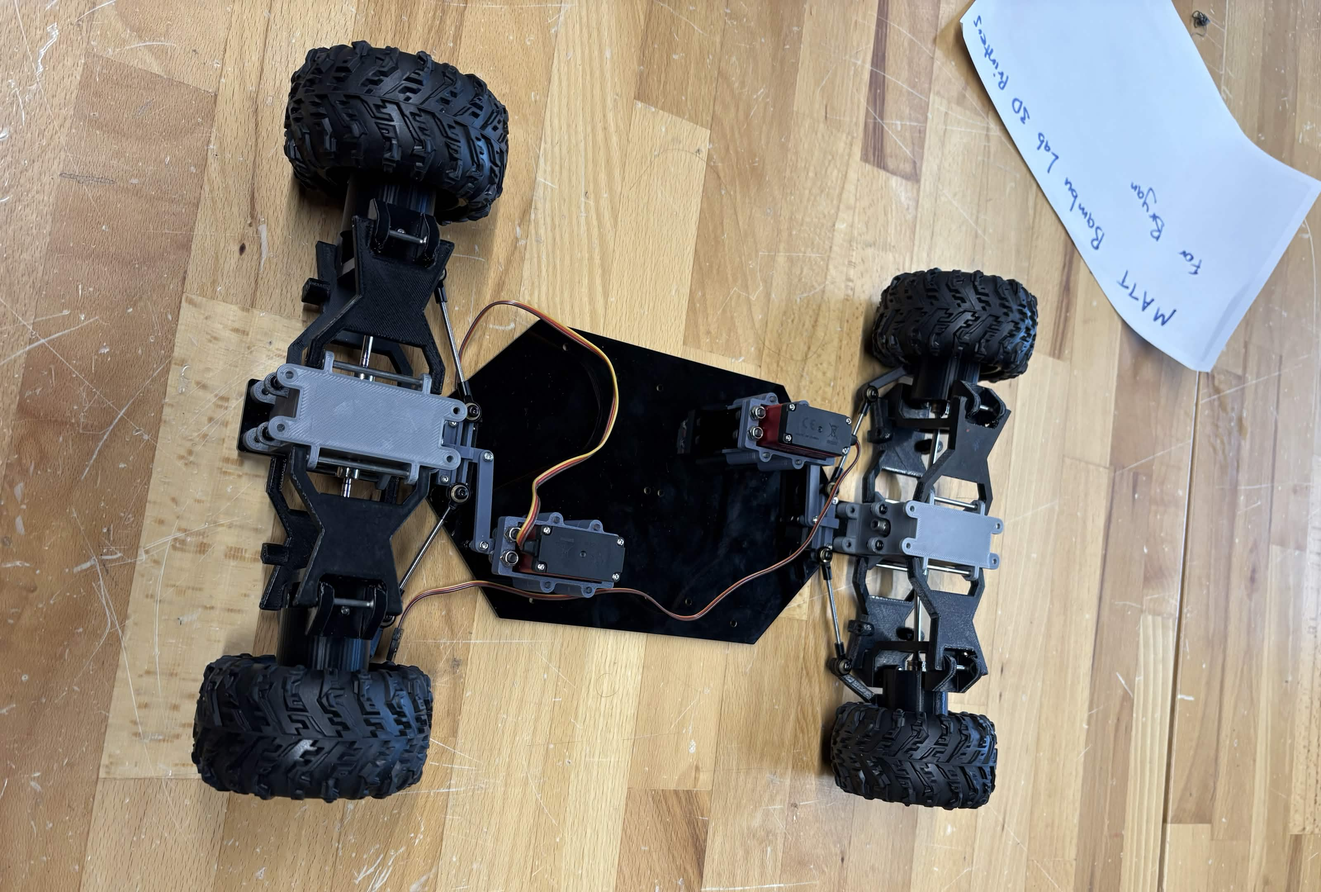
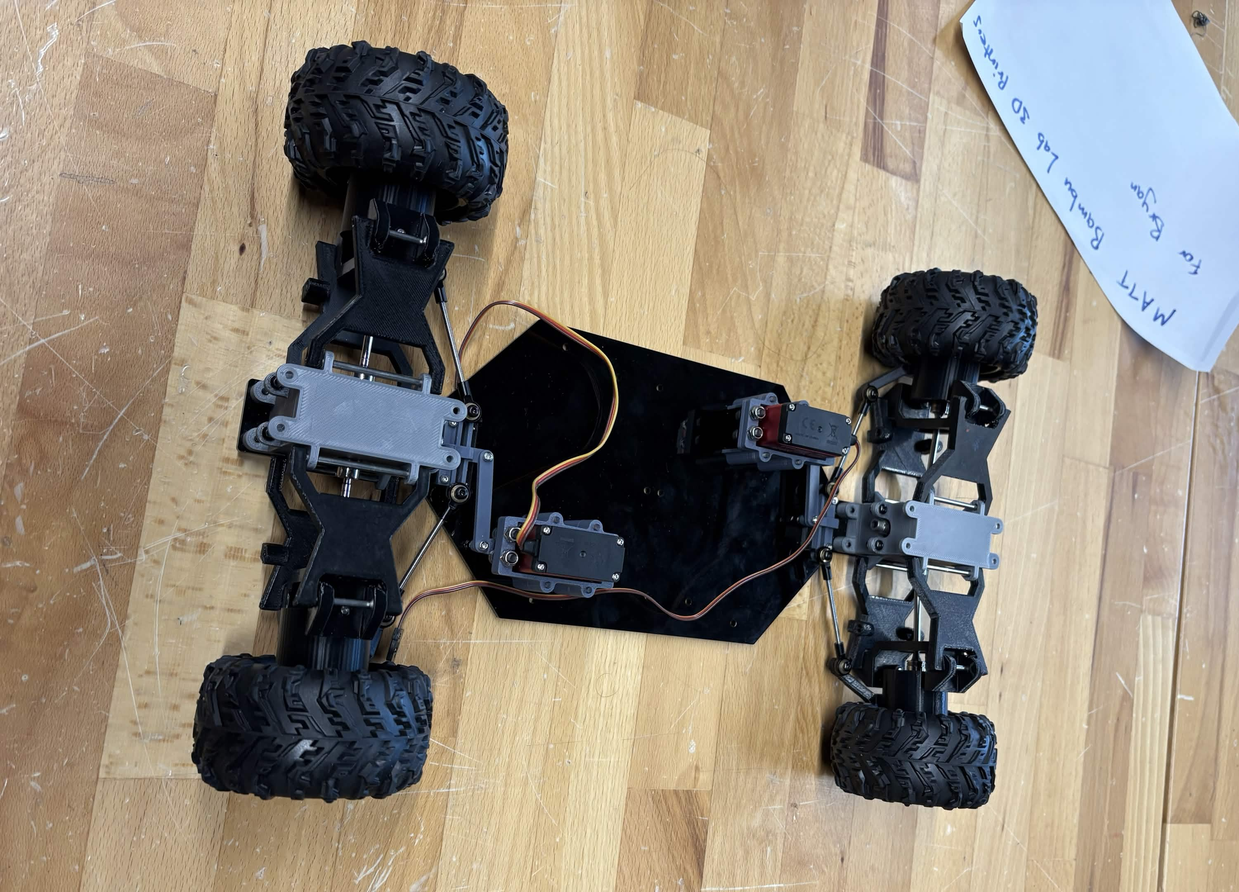
Add new project - can crusher and sorter

diff --git a/script.js b/script.js
@@ -133,7 +133,7 @@ const projectData = {
     ]
   },
 
-    mcav: {
+  mcav: {
     category: "Mechanical Design / Autonomous Vehicle / Manufacturing",
 
     title: "Monash Connected Autonomous Vehicle (MCAV)",
@@ -178,6 +178,45 @@ const projectData = {
         type: "image",
         src: "assets/images/MCAV-Steer.jpg",
         caption: "Ackermann steering and suspension assembly"
+      }
+    ]
+  },
+  sorter: {
+    category: "PLC / Industrial Automation / Sensors & Actuators",
+
+    title: "Automated Sorter and Can Crusher",
+
+    description:
+      "This project involved developing an automated conveyor-based sorting and can-crushing system controlled using PLC logic. Objects travelling along the conveyor were identified using capacitive and inductive proximity sensors. Non-metal objects were automatically rejected using a pneumatic actuator, while detected cans continued through the system for collection and crushing.",
+
+    role:
+      "I developed the PLC control sequence and integrated the sensors, conveyor and pneumatic actuators into the complete system. A capacitive proximity sensor detected objects on the conveyor while an inductive proximity sensor identified metal cans. If an object was not identified as a can, a pneumatic actuator was triggered to remove it from the conveyor. The PLC counted accepted cans and, once four cans were detected, stopped the conveyor and initiated the crushing sequence before releasing the crushed cans. The project strengthened my understanding of PLC programming, sensor selection, actuator control, sequencing and industrial automation.",
+
+    tags: [
+      "PLC Programming",
+      "Industrial Automation",
+      "Capacitive Sensor",
+      "Inductive Sensor",
+      "Pneumatic Actuation",
+      "Conveyor Control",
+      "Sequential Logic",
+      "Sensor Integration",
+      "Actuator Control",
+      "System Integration",
+      "Testing"
+    ],
+
+    media: [
+      {
+        type: "image",
+        src: "assets/images/Can-Sorter.jpg",
+        caption: "PLC-controlled conveyor sorting and can-crushing system"
+      },
+
+      {
+        type: "video",
+        src: "assets/videos/Can-Sorter-Demo.mp4",
+        caption: "Automated sorting and crushing sequence during system testing"
       }
     ]
   }

diff --git a/index.html b/index.html
@@ -145,7 +145,30 @@
           <p class="explore-text">＋ Tap to explore</p>
         </div>
       </div>
+      <!-- 05 PLC SORTER & CAN CRUSHER -->
+      <div class="project-card theme-purple" data-number="05" data-project="sorter">
+        <img src="assets/images/Can-Sorter.jpg" alt="PLC Controlled Sorter and Can Crusher" />
 
+        <div class="project-info">
+          <p class="project-category">PLC / Automation / Sensors & Actuators</p>
+
+          <h3>Automated Sorter and Can Crusher</h3>
+
+          <p>
+            Developed a PLC-controlled sorting and crushing system using proximity sensors,
+            pneumatic actuators and conveyor sequencing.
+          </p>
+
+          <div class="tags">
+            <span>PLC</span>
+            <span>Sensors</span>
+            <span>Pneumatics</span>
+            <span>Automation</span>
+          </div>
+
+          <p class="explore-text">＋ Tap to explore</p>
+        </div>
+      </div>
     </div>
   </section>
 

diff --git a/style.css b/style.css
@@ -946,3 +946,30 @@ body.modal-open {
   margin-bottom: 0 !important;
   font-size: 0.64rem !important;
 }
+
+/* Sorter / Automation - Purple Theme */
+
+.project-card.theme-purple {
+  background: linear-gradient(to bottom, #ffffff 75%, #faf5ff 100%) !important;
+  border-color: #7e22ce !important;
+  box-shadow: 8px 8px 0 #e9d5ff !important;
+}
+
+.project-card.theme-purple:hover {
+  box-shadow: 13px 13px 0 #d8b4fe !important;
+}
+
+.project-card.theme-purple::before {
+  border-color: #7e22ce !important;
+  color: #7e22ce !important;
+}
+
+.project-card.theme-purple .project-category {
+  color: #9333ea !important;
+}
+
+.project-card.theme-purple .tags span {
+  background: #f3e8ff !important;
+  border-color: #7e22ce !important;
+  color: #6b21a8 !important;
+}
